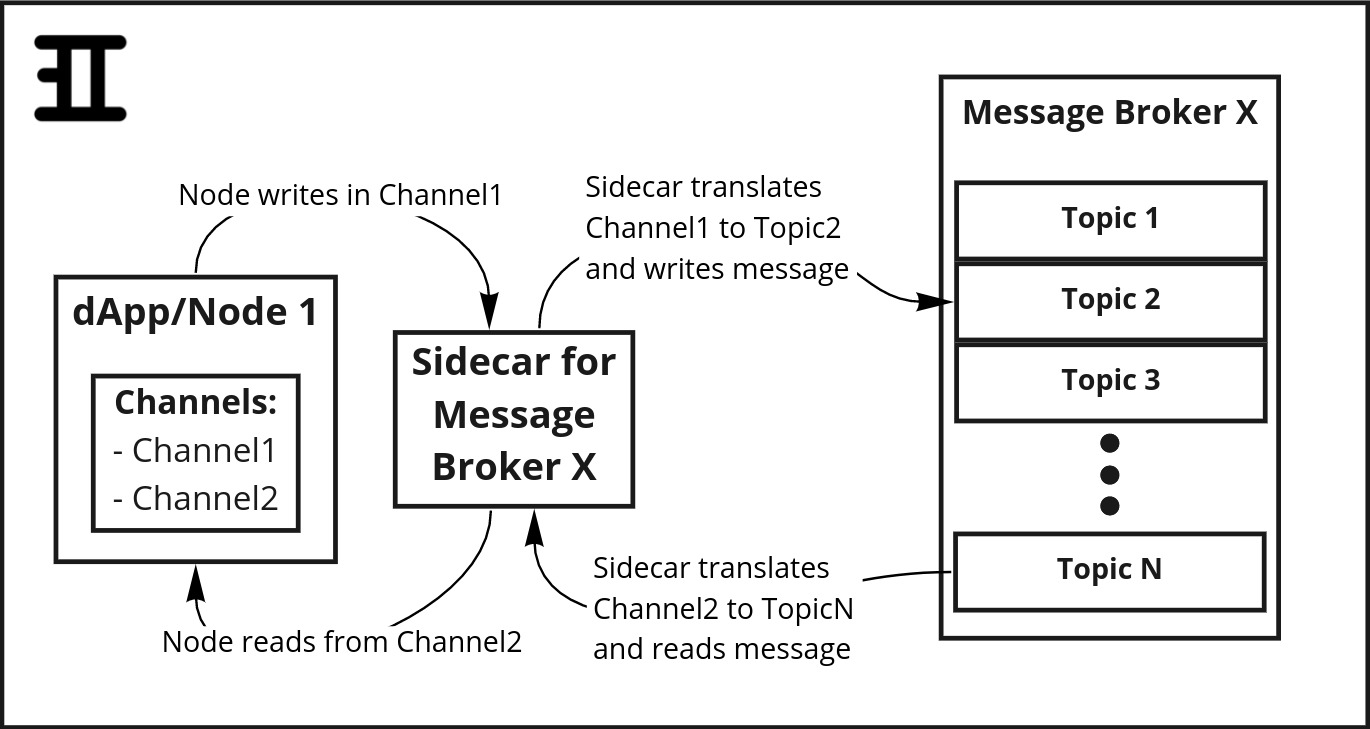
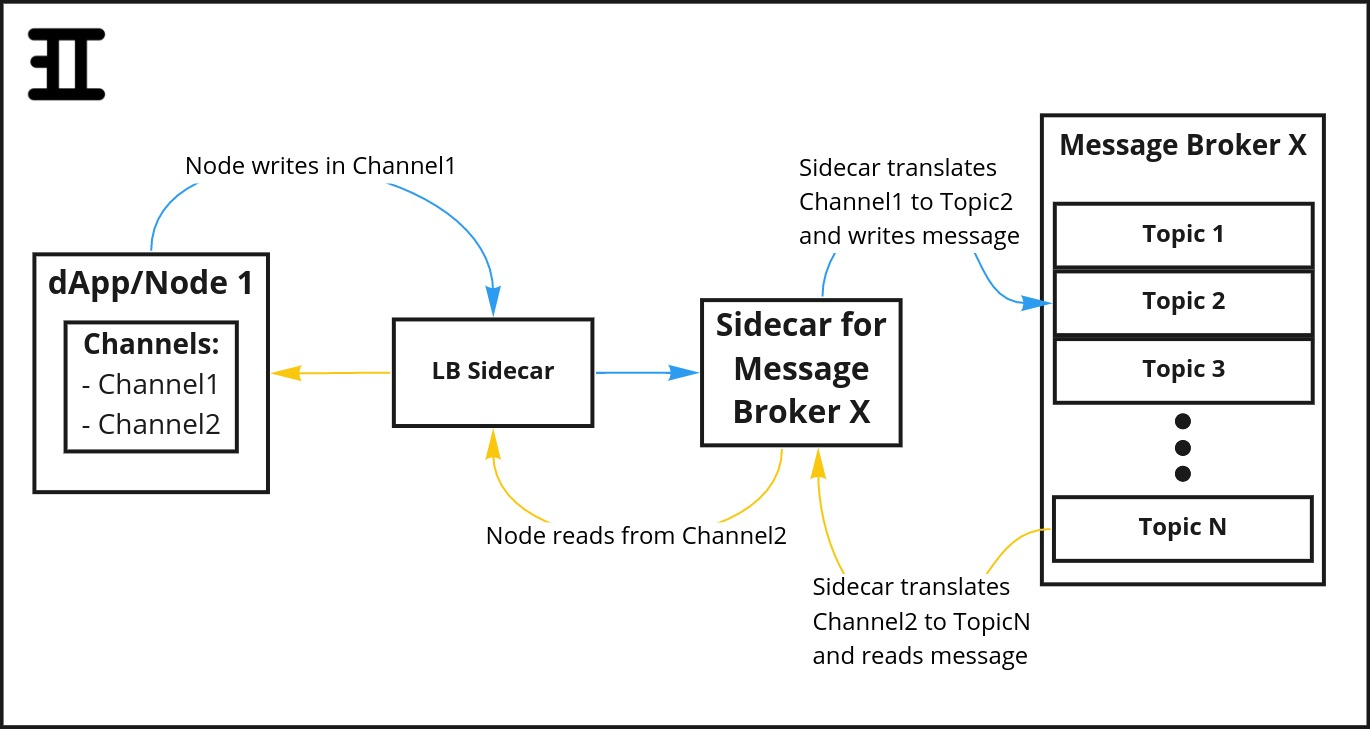
dev(docs): updated dApp overview doc

Changed region(s): [[0.0, 0.0905, 0.981, 0.9355], [0.0, 0.0, 1.0, 0.1811], [0.1226, 0.2112, 0.3679, 0.332]]

diff --git a/docs/dapp_overview.md b/docs/dapp_overview.md
@@ -2,7 +2,7 @@
 This document gives a brief introduction to Inspr's main structures, on how they are arranged and how they interact with each other. Through the use of images and clear descriptions, this introduction will help you understand how and why your applications can be much more scalable and composable.
 
 ## What are dApps?  
-A dApp is the base without which none of the other structures would exist, it contains all other structures inside of it. That is to say, a dApp is the base structure of Inspr, and inside of it there can be created Channels, Types and even other dApps!  
+A dApp is the base without which none of the other structures would exist, it contains all other structures inside of it. That is to say, a dApp is the base structure of Inspr, and inside of it there can be created Channels, Types, Routes and even other dApps!  
 A dApp can also be a Node, which is basically the same as a normal dApp but has slightly different functionalities, which will be discussed ahead.
 
 ![dapp](img/dapp-struct.png)
@@ -11,6 +11,7 @@ A dApp can also be a Node, which is basically the same as a normal dApp but has 
 - All structures created by the user are (directly or not) inside of a **root dApp**.  
 - A dApp **can't** contain other dApps if it is a Node, and vice versa.
 - Boundary defines by which Channels a dApp exchanges information with it's parent dApp.
+    - Aliases can be used to implement a multi-layer communication.
 - The global dApps organization is a tree-like structure:  
 
 ![tree](img/dapp-tree.png)  
@@ -22,7 +23,7 @@ The unique characteristics of a Node are defined by three structures set by the 
 - **Replicas**: number of Node's replicas that will be created in the **k8s cluster**.
 - **Environment**: user-defined environment variables that can be accessed from within the Node.  
 
-**Nodes are created insite a Kubernetes cluster as Deployments.**  
+**Nodes are created inside a Kubernetes cluster as Deployments.**  
 As described previously in "What are dApps?", a dApp that is a Node can't have child dApps. This means that:
 1) A Node is a dApp that has a Node structure defined in it.
     - This implies that Nodes make use of all the structures defined within it's parent (Channels, Types, Boundaries and Aliases)
@@ -30,23 +31,27 @@ As described previously in "What are dApps?", a dApp that is a Node can't have c
 
 
 ## What are Channels?  
-Channels are the structures that allow dApps and Nodes to exchange information between each other.  
+Channels are the structures that allow dApps and Nodes to exchange information between each other via message brokers.  
 A dApp/Node inputs and outputs are defined by it's Boundary. The Boundary, on the other hand, references a parent dApp's Channel (or Alias, which will be described ahead).
 
 ![channel](img/chan-func.png)  
 
-Channels are created to receive and send a specific kind of information. This specification is defined by a **Channel's Type**, which is a reference to a Type structure defined in the same context (in the same dApp) as the Channel. In other words:
-- A Channel only carries a specific kind of data (such as *int*, *string*, or an object defined by the user).
-- A Channel can't exist without a Type.  
+Channels are created to receive and send a specific kind of information. This specification is defined by it's **Type**, which is a reference to a Type structure defined in the same context (in the same dApp) as the Channel. In other words:
+- A Channel only carries a specific kind of data (such as *int*, *string*, or a structure defined by the user).
+- A Channel can't exist without a Type associated to it.  
 
-In a more detailed explanation, the cluster's structures communication is done through a [Message Broker](https://en.wikipedia.org/wiki/Message_broker) (such as Apache Kafka, RabbitMQ, etc.). So what a Channel really does is to define from which part of the broker (which Topic) a Node should read a message, or to which part it should write a message.  
+In a more detailed explanation, the cluster's structures communication can be done through a [Message Broker](https://en.wikipedia.org/wiki/Message_broker) (such as Apache Kafka, RabbitMQ, etc.). So what a Channel really does is to define from which part of the broker (which topic) a Node should read a message, or to which part it should write a message.  
+It's relevant to point out that **a Channel can be associated with only one message broker**. That is, if the implementation of a Node that communicate with Kafka and Redis is desired, for example, two (or more) different Channels must be created, so one of them is related to Kafka and the other one to Redis.
 
 ![chan-topic](img/chan-topic.jpg)
 
+## What are Routes?
+...work in progress...
+
 ## What are Types?
-Whilst a Channel is the way in or out of a dApp, the **type of information that can go through it is defined by the Type.**  
-A Type can't be deleted if there are Channels connected to it.
-Also, the kind of information that can go through a Channel is defined in it's Type's Schema. **A Type Schema is an Avro schema, in string format.**  
+Whilst Channels and Routes are the way in or out of a dApp, the **type of information that can go through them is defined by the Type structure.**  
+A Type can't be deleted if there are Channels or Routes connected to it.
+Also, the kind of information that can go through a Channel/Route is defined in its Type's Schema. **A Type Schema is an Avro schema, in string format.**  
 Generate Avro schema from a JSON [here](https://toolslick.com/generation/metadata/avro-schema-from-json).
 
 ## How is information passed between Nodes?
@@ -54,15 +59,25 @@ As pointed out previously, an Inspr environment containing one or multiple dApps
 - In "What are Nodes?" it's explained that a Node is a dApp that has a Node structure defined in it. For that, a Node uses the Boundaries defined in it's context as input and/or output to communicate with other Nodes.
 - In "What are Channels?" it's shown that Channels point out to/from where informations should be read/wrote, informations which are genereted and processed by the Nodes.  
 
+
+### Load Balancer Sidecar
+The main structure that enables Nodes to communicate in a cluster environment is the **Load Balancer Sidecar**. This structure is deployed "attached" to every Node, and serves as a [load balancer](https://www.nginx.com/resources/glossary/load-balancing/). That is:
+- When a Node sends information it actually sends a request to the Load Balancer Sidecar, which will serialize the data and redirect this information to the desired receiver.
+- When a Node receives information what actually happens is that the sender makes a request to the Load Balancer Sidecar, which will then desserialize the data and send it to the Node.  
+
+The LB Sidecar is used for communication via message brokers (Channels), via HTTP requests (Routes) and via shared memory.
+
+
+### Broker-specific Sidecars
 If all [Message Brokers](https://en.wikipedia.org/wiki/Message_broker) had the same architecture, it'd be simple to make Nodes exchange information: they would just write or read messages from where their Channels are pointing to.  
 Unfortunately, different Message Brokers demand different configurations, and changing an application that uses Kafka to use RabbitMQ, for example, can be very costly.  
 
 To resolve this issue, **Inspr implements Channels agnostic to runtime**. That is, Inspr users are able to create applications at a high level without the need of knowing the runtime (unless the code is very specific), so that their dApps can run in many systems and need not to worry about Broker configurations.  
-In Inspr, each Node has a **Sidecar** attached to it. A Sidecar is the structure that translates a Node's read/write commands to a specific Message Broker, so users don't have to worry about it!  
+In Inspr, each Node can have multiple **broker-specific Sidecars** "attached" to it's Load Balancer Sidecar. A broker-specific Sidecar is the structure that translates a Node's read/write commands to a specific Message Broker, so users don't have to worry about it!  
 
 ![sidecar](img/sidecar.jpg)  
 
-As it's shown above, dApp/Node1 uses the Message Broker X, so the Sidecar attached to the Node is the Sidecar for Broker X. If the user decides to change the Broker to Message Broker Y, all that's needed to be done is replace the Sidecar X for Broker's Y Sidecar.
+As it's shown above, dApp/Node1 uses the Message Broker X, so the Sidecar attached to the Node is the Sidecar for Broker X. If the user decides to change the Broker to Message Broker Y, all that's needed to be done is replace the Sidecar X for Broker's Y Sidecar. This is done automatically by Inspr once the Channels are modified to be associated with Message Broker Y and the Node is re-deployed. 
 
 The overall communication in between Nodes can be seen as going up or down the tree of dApps:
 

diff --git a/docs/difference.md b/docs/difference.md
@@ -1,4 +1,4 @@
-# Inpsr CLI Difference Output
+# Inspr CLI Difference Output
 
 This document is to further describe how the difference generated by the `inspr apply` operation works and what it described to the user.
 
